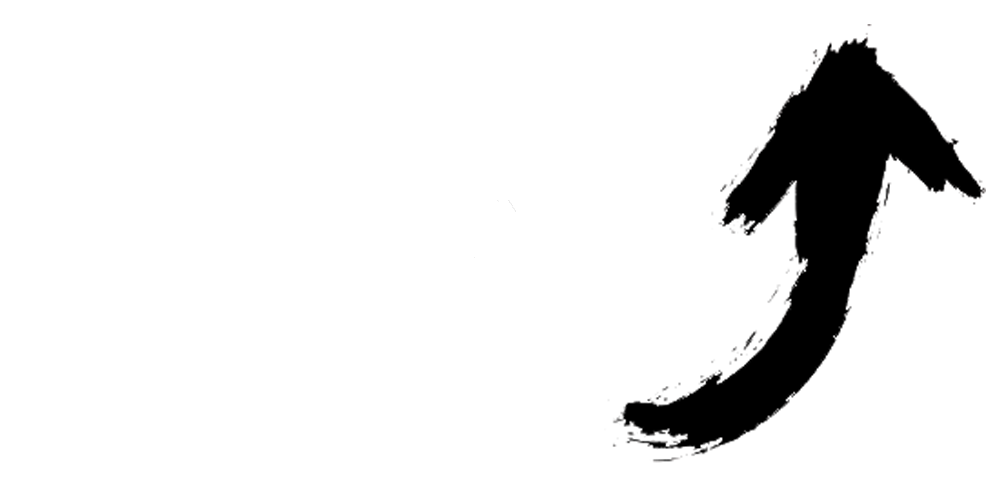
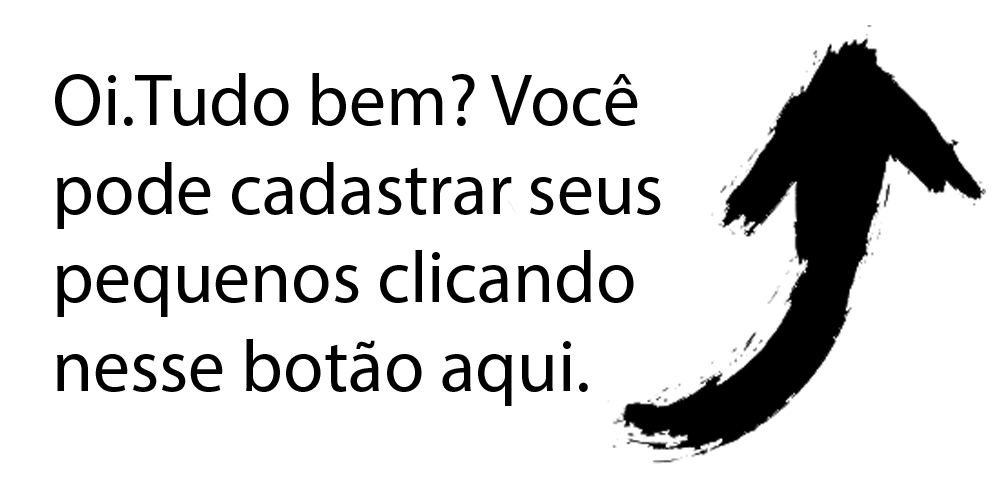
Feito a parte do photoshop dos MeusPets e a parte da lista

diff --git a/lib/ui/meuspets.dart b/lib/ui/meuspets.dart
@@ -7,6 +7,12 @@ class MeuspetsPage extends StatefulWidget {
 }
 
 class _MeuspetsPageState extends State<MeuspetsPage> {
+
+@override
+void initState() {
+    super.initState();
+  }
+
   @override
   Widget build(BuildContext context) {
     return Scaffold(
@@ -15,38 +21,60 @@ class _MeuspetsPageState extends State<MeuspetsPage> {
         backgroundColor: Colors.deepOrange,
         centerTitle: true,
         actions: <Widget>[
-         FloatingActionButton(
-           onPressed: (){
-             _registrarPet();
-           },
-           child: Icon(Icons.add),
-           backgroundColor: Colors.deepOrange,
-           elevation: 20,
-           highlightElevation:30,
-           foregroundColor: Colors.white,
-         )
+          FloatingActionButton(
+            onPressed: () {
+              _registrarPet();
+            },
+            child: Icon(Icons.add),
+            backgroundColor: Colors.deepOrange,
+            elevation: 20,
+            highlightElevation: 30,
+            foregroundColor: Colors.white,
+          )
         ],
       ),
-  body: SingleChildScrollView(
-    padding: EdgeInsets.all(40.0),
-    child: Column(
-      crossAxisAlignment: CrossAxisAlignment.stretch,
-      children: <Widget>[
-        Padding(
-          padding: EdgeInsets.all(20.0),
-          child: Image.asset("lib/images/mensagem_tutorial.png"),
-        )
-      ],
-      
-    ),
-  ),
+      body:
+            ListView.builder(
+              padding: EdgeInsets.all(10.0),
+              itemCount: 2 ,
+              itemBuilder: (context, index){
+                return _petCard(context, index);
+              },
+            ),
+
+
+            /*Padding(
+          padding: EdgeInsets.only(left: 100.0,),
+          child: Image.asset("lib/images/mensagem_tutorial.png",height: 190.0,),
+        )*/
+
+
+
     );
   }
-  void _registrarPet(){
-    Navigator.push(context, MaterialPageRoute(
-        builder: (context) => RegistrarpetsPage(
-        )));
+
+  void _registrarPet() {
+    Navigator.push(
+        context, MaterialPageRoute(builder: (context) => RegistrarpetsPage()));
   }
+
+  Widget _petCard(BuildContext context, int index) {
+    return GestureDetector(
+      child: Card(
+        elevation: 10,
+        child: Padding(
+            padding: EdgeInsets.all(10.0),
+            child: ListTile(
+              title: Text('Nome',style: TextStyle(fontSize: 20 )),
+              subtitle: Text('Raça'),
+              leading: Image.asset('lib/images/pet_logo.png'),
+            )),
+      ),
+    );
+  }
+
+/*widget function(){
+    if(lista != null)
+    return Padding
+  }*/
 }
-
-

diff --git a/lib/ui/calendar.dart b/lib/ui/calendar.dart
@@ -1,5 +1,6 @@
 import 'package:flutter/material.dart';
 import 'package:table_calendar/table_calendar.dart';
+import 'package:flutter_your_pet/ui/horario.dart';
 
 class CalendarPage extends StatefulWidget {
   @override
@@ -11,6 +12,7 @@ class CalendarPage extends StatefulWidget {
 class _CalendarPageState extends State<CalendarPage> {
 
     var _calendarController = CalendarController();
+    String day;
 
   @override
   void initState() {
@@ -34,11 +36,48 @@ class _CalendarPageState extends State<CalendarPage> {
       ),
       body: SingleChildScrollView(
         padding: EdgeInsets.only(top: 20.0),
-        child: TableCalendar(
-            calendarController: _calendarController
-        ),
+        child: Column(
+          children: <Widget>[
+            TableCalendar(
+                onDaySelected: _onDaySelected,
+                calendarController: _calendarController
+            ),
+            Padding(
+              padding: EdgeInsets.only(right: 10.0, left: 10.0, top: 20.0),
+              child: Container(
+                height: 50.0,
+                child: RaisedButton(
+                  padding: EdgeInsets.symmetric(horizontal: 30.0),
+                  elevation: 10.0,
+                  shape: OutlineInputBorder(
+                    borderRadius: BorderRadius.circular(25),
+                    borderSide: BorderSide(color: Colors.black),
+                  ),
+                  onPressed: () {
+                   _irParaHorarios();
+                  },
+                  color: Colors.deepOrange,
+                  child: Text(
+                    "Proximo",
+                    style: TextStyle(color: Colors.white, fontSize: 20.0),
+                  ),
+                ),
+              ),
+            ),
+          ],
+        )
       ),
     );
   }
+    void _onDaySelected(DateTime day1, List events) {
+      print('CALLBACK: _onDaySelected' + day.toString());
+      day = day1.toString();
+    }
+
+    void _irParaHorarios(){
+      Navigator.push(context, MaterialPageRoute(
+          builder: (context) => HorarioPage(day
+          )));
+    }
 }
 

diff --git a/lib/ui/horario.dart b/lib/ui/horario.dart
@@ -1,0 +1,15 @@
+import 'package:flutter/material.dart';
+
+class HorarioPage extends StatefulWidget {
+  final day;
+  HorarioPage(this.day);
+  @override
+  _HorarioPageState createState() => _HorarioPageState();
+}
+
+class _HorarioPageState extends State<HorarioPage> {
+  @override
+  Widget build(BuildContext context) {
+    return Text(widget.day.toString());
+  }
+}
